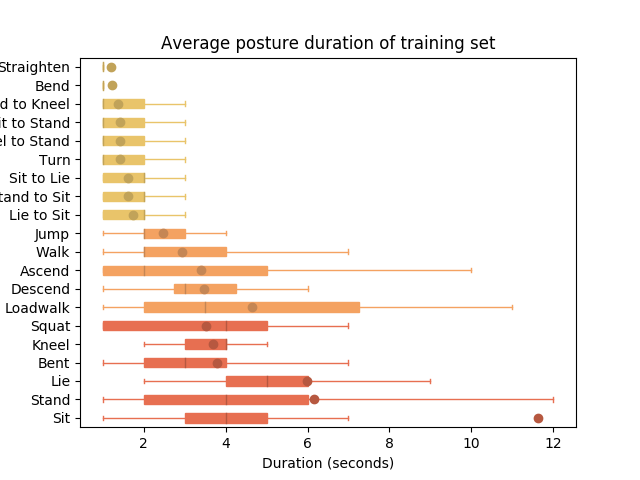
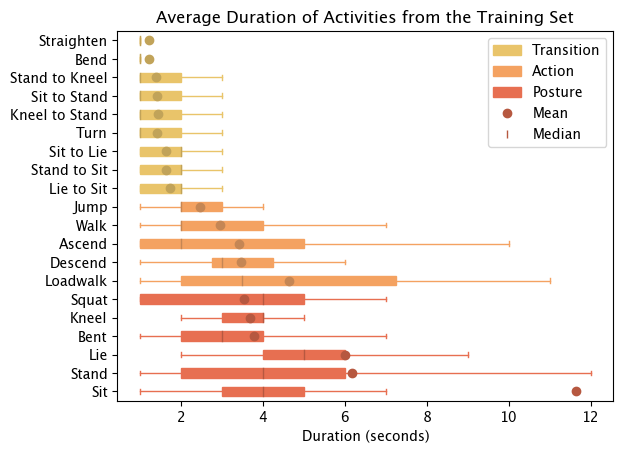
final graphs done

Changed region(s): [[0.0, 0.0308, 0.9759, 0.9868], [0.9454, 0.8943, 0.9759, 0.9251]]

diff --git a/explore_data.py b/explore_data.py
@@ -13,6 +13,10 @@ import os
 import pandas as pd
 import numpy as np
 import matplotlib.pyplot as plt
+from matplotlib.patches import Patch
+from matplotlib.lines import Line2D
+import matplotlib.font_manager
+from collections import Counter
 
 # get train dataframe
 sample_dirs = os.listdir(TRAIN_PATH)
@@ -61,6 +65,7 @@ mins = []
 maxs = []
 standard_devs = []
 posture_times = []
+posture_tally = []
 
 for posture in postures:
     posture_accel_df = acceleration_df[posture_label==posture]
@@ -73,6 +78,7 @@ for posture in postures:
         # record how long each posture takes
         t = len(posture_i)
         posture_time.append(t)
+        posture_tally.append(posture)
 
     mean_posture_time = np.mean(posture_time)
     print("mean time for %s:" % posture,mean_posture_time)
@@ -82,11 +88,14 @@ for posture in postures:
     mins.append(round(min(posture_time)))
     maxs.append(round(max(posture_time)))
     posture_times.append(posture_time)
+    
 
 
 
 
 plt.rcdefaults()
+plt.rcParams["font.sans-serif"] = ["Lucida Grande"]
+plt.rcParams["font.weight"] = "light"
 fig, ax = plt.subplots()
 y_pos = np.arange(len(postures))
 
@@ -139,29 +148,28 @@ for i,category in enumerate(['2a_',"3p_","1t_"]):
                     patch_artist=True,
  					boxprops=dict(facecolor=colour, color=colour),
              		capprops=dict(color=colour),
-             		whiskerprops=dict(color=colour),
-                    
+             		whiskerprops=dict(color=colour), 
              		medianprops=dict(color=dcolour),
                     meanprops = dict(marker='o', markeredgecolor=dcolour,markerfacecolor=dcolour))
 
+# legend
+colours = ['#f4a261','#e76f51','#e9c46a']
+darkercolours = ['#c58654','#b65840','#c1a359']
+custom_block = [Patch(facecolor=colours[2], edgecolor=colours[2]),
+                Patch(facecolor=colours[0], edgecolor=colours[0]),
+                Patch(facecolor=colours[1], edgecolor=colours[1]),
+                Line2D([0], [0], marker='o',color=darkercolours[1], lw=0),
+                Line2D([0],[0],marker='|',color=darkercolours[1],lw=0)]
+ax.legend(custom_block, ['Transition','Action', 'Posture','Mean','Median'])
 
-# bplots = ax.boxplot(posture_times,0,'rh',0,positions=df.index,showfliers=False,patch_artist=True,
-# 					boxprops=dict(facecolor=colours, color=colours),
-#             		capprops=dict(color=colours),
-#             		whiskerprops=dict(color=colours),
-#             		medianprops=dict(color=colours))
-
-
-# for bplot in bplots:
-#     for patch, color in zip(bplot['boxes'], colours):
-#         patch.set_facecolor(color)
+# fig, ax = plt.subplots()
 
 ax.set_yticks(y_pos)
 ax.set_yticklabels(postures)
 ax.invert_yaxis()  # labels read top-to-bottom
 ax.set_xlabel('Duration (seconds)')
-ax.set_title('Average posture duration of training set')
-plt.savefig('figures/posture_duration.png')
+ax.set_title('Average Duration of Activities from the Training Set')
+plt.savefig('figures/posture_duration.png',bbox_inches='tight')
 plt.clf()
 
 # plt.rcdefaults()
@@ -169,3 +177,50 @@ plt.clf()
 # y_pos = np.arange(len(postures))
 # ax.boxplot(y_pos,posture_times)
 # plt.savefig('figures/posture_duration_boxplot.png')
+
+# print(posture_tally)
+posture_type = ['2a_',"3p_","1t_"]
+colours = ['#f4a261','#e76f51','#e9c46a']
+counts = Counter(posture_tally)
+labels, values = zip(*counts.items())
+# sort your values in descending order
+indSort = np.argsort(values)[::-1]
+# rearrange your data
+labels = np.array(labels)[indSort]
+values = np.array(values)[indSort]
+print(labels)
+print(values)
+indexes = np.arange(len(labels))
+postures2 = ['Ascend','Descend', 'Jump', 'Loadwalk', 'Walk','Bent', 'Kneel', 'Lie', 'Sit', 'Squat', 'Stand','Bend', 'Kneel to Stand', 'Lie to Sit', 'Sit to Lie', 'Sit to Stand', 'Stand to Kneel', 'Stand to Sit','Straighten', 'Turn']
+postures2 = np.array(postures2)[indSort]
+bar_width = 0.35
+
+for i,posture in enumerate(labels):
+    if posture in p_:
+        colour = '#e76f51'
+        plt.barh(postures2[i], values[i],color=colour)
+    else:
+        continue
+
+for i,posture in enumerate(labels):
+    if posture in a_:
+        colour = '#f4a261'
+        plt.barh(postures2[i], values[i],color=colour)
+    else:
+        continue
+
+for i,posture in enumerate(labels):
+    if posture in t_:
+        colour = '#e9c46a'
+        plt.barh(postures2[i], values[i],color=colour)
+    else:
+        continue
+
+custom_block = [Patch(facecolor=colours[2], edgecolor=colours[2]),
+                Patch(facecolor=colours[0], edgecolor=colours[0]),
+                Patch(facecolor=colours[1], edgecolor=colours[1]),
+                ]
+plt.legend(custom_block, ['Transition','Action', 'Posture'])
+
+plt.title('Histogram of Activity Counts')
+plt.savefig('figures/posture_histogram.png',bbox_inches='tight')

diff --git a/acceleration_graph.py b/acceleration_graph.py
@@ -1,0 +1,93 @@
+# import modules
+import pandas as pd
+import numpy as np
+import matplotlib.pyplot as plt
+import matplotlib as mpl # in python
+from mpl_toolkits.mplot3d import Axes3D
+from scipy.interpolate import interp1d
+from operator import itemgetter
+from more_itertools import unique_everseen
+
+
+j=13
+# 31 - 0002
+# 90 - 0003
+# 13 - 0004
+# 31 - 0004
+annotations_0 = 'data/train/00004/annotations_0.csv'
+acceleration = 'data/train/00004/acceleration.csv'
+df = pd.read_csv(annotations_0)
+start = df['start'][j]
+end = df['end'][j]
+print(df['name'][j])
+
+def check(value,a,b):
+    if a <= value <= b:
+        return True
+    return False
+
+acceleration_df = pd.read_csv(acceleration)
+time = acceleration_df['t']
+x = acceleration_df['x']
+y = acceleration_df['y']
+z = acceleration_df['z']
+X = []
+Y = []
+Z = []
+
+for i,t in enumerate(time):
+	if check(t,start,end):
+		X.append(x[i])
+		Y.append(y[i])
+		Z.append(z[i])
+
+
+
+# fig stuff
+fig = plt.figure()
+ax = plt.axes(projection='3d')
+
+ax.plot3D(X,Y,Z,'#f4a261')
+
+for i,x in enumerate(X):
+	y = Y[i]
+	z = Z[i]
+	ax.scatter3D(X,Y,Z,color='#f4a261')
+	ax.text(x,y,z+0.006,i,size=6)
+
+
+t = len(X)
+print(t)
+ax.text(X[0]+0.09,Y[0],Z[0]+0.03,'Start',color='#f4a261')
+ax.text(X[t-1],Y[t-1]+0.01,Z[t-1]-0.02,'End',color='#f4a261')
+ax.set_xticks([])
+ax.set_yticks([])
+ax.set_zticks([])
+# plt.axis('off')
+ax.set_xlabel('x')
+ax.set_ylabel('y')
+ax.set_zlabel('z')
+# ax.xaxis._axinfo['label']['space_factor'] = 1
+ax.grid(False)
+
+
+ax.xaxis.pane.set_edgecolor('#b1b4b5')
+ax.yaxis.pane.set_edgecolor('#b1b4b5')
+ax.zaxis.pane.set_edgecolor('#b1b4b5')
+ax.xaxis.pane.fill = False
+ax.yaxis.pane.fill = False
+ax.zaxis.pane.fill = False
+
+
+# ax.xaxis.line.set_color('gray')	
+# ax.zaxis.line.set_linewidth(0.01)	
+# ax.yaxis.line.set_color('gray')	
+# ax.zaxis.line.set_color('gray')	
+# ax.yaxis._axinfo['label']['space_factor'] = 2.8
+for axis in [ax.w_xaxis, ax.w_yaxis, ax.w_zaxis]:
+    axis.line.set_linewidth(0.01)
+ax.view_init(30, 30)
+# ax.contour3D(X,Y,Z,cmap='autumn')
+
+plt.title('Acceleration: Walk',y=1.05)
+plt.savefig('figures/walk_plot.png',bbox_inches='tight',dpi=300)

diff --git a/correlation_matrix.py b/correlation_matrix.py
@@ -1,0 +1,44 @@
+# import modules
+import pandas as pd
+import numpy as np
+import matplotlib.pyplot as plt
+import matplotlib as mpl # in python
+from feature_combination import TRAIN_PATH, TEST_PATH
+from feature_combination import get_training_samples_dict, get_training_samples_frame
+from feature_combination import get_testing_samples_dict, get_testing_samples_frame
+
+# read csv files
+train_frame = pd.read_csv('train_frame.csv')
+
+features = ['centre_2d_x','centre_2d_y','bb_2d_br_x','bb_2d_br_y','bb_2d_tl_x','bb_2d_tl_y','centre_3d_x','centre_3d_y',
+			'centre_3d_z','bb_3d_brb_x','bb_3d_brb_y','bb_3d_brb_z','bb_3d_flt_x','bb_3d_flt_y','bb_3d_flt_z','acceleration_x',
+			'acceleration_y','acceleration_z','acceleration_Kitchen_AP','acceleration_Lounge_AP','acceleration_Upstairs_AP',
+			'acceleration_Study_AP','pir_bath','pir_bed1','pir_bed2','pir_hall','pir_kitchen','pir_living','pir_stairs','pir_study','pir_toilet','a_ascend','a_descend','a_jump','a_loadwalk','a_walk','p_bent','p_kneel','p_lie','p_sit','p_squat','p_stand','t_bend','t_kneel_stand','t_lie_sit','t_sit_lie','t_sit_stand','t_stand_kneel','t_stand_sit','t_straighten','t_turn']
+
+df = train_frame[features]
+
+# colourmap
+# C=[1,2,3:4,5,6]
+
+# C = [(0.4078,0.20784,0.85490),(1,0.91372,0.929411),(1,0.5176,0.25098)]
+C = [(81, 201, 231),(255,255,255),(231, 111, 81)]
+# C = [(63, 158, 181),(255,255,255),(231, 111, 81)]
+# C = [(97, 178, 244),(255,255,255),(244, 163, 97)]
+colours= []
+for c in C:
+	c = tuple([x/255 for x in c])
+	colours.append(c)
+
+n_bin = 100
+
+	
+cm = mpl.colors.LinearSegmentedColormap.from_list(
+        'my_cmap', colours, N=n_bin)
+f = plt.figure(figsize=(19, 15))
+plt.matshow(df.corr(), fignum=f.number,cmap=cm,vmax=1,vmin=-1)
+plt.xticks(range(df.shape[1]), df.columns, fontsize=14, rotation=90)
+plt.yticks(range(df.shape[1]), df.columns, fontsize=14)
+cb = plt.colorbar()
+cb.ax.tick_params(labelsize=14)
+plt.title('Feature Correlation Matrix', fontsize=26,y=1.25)
+plt.savefig('figures/correlation_matrix2.png',bbox_inches='tight')
